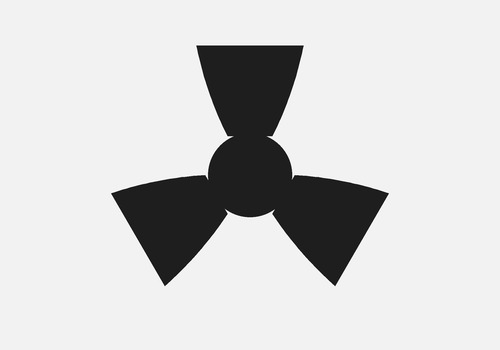
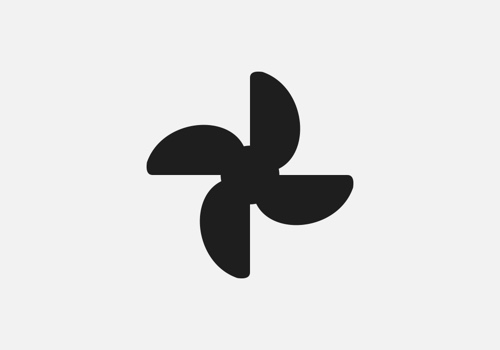
Put the new fan on the pair screen and the app card
The pair screens drew their own copy of the artwork, so they kept the
old sketch after the tiles were redrawn. The fan one also sat around
(480,400) while the spin animation turns about the centre of the
viewBox, so it wobbled rather than span. Both now carry the same
drawings as the tiles, centred. The app's own images were never
redrawn either; they are the new fan on the same grey card.

Changed region(s): [[0.21, 0.1143, 0.78, 0.8286]]

diff --git a/drivers/fan/pair/learn.html b/drivers/fan/pair/learn.html
@@ -59,20 +59,12 @@
 
 <div class="lucci-learn" id="container">
     <svg class="lucci-fan" viewBox="0 0 960 960" xmlns="http://www.w3.org/2000/svg">
-        <!-- Three blades around a hub, at 120 degrees to each other. -->
-        <path d="M480,400
-                 C480,400 470,180 420,110
-                 C380,55 300,60 275,120
-                 C248,185 330,290 480,400 Z"/>
-        <path d="M480,400
-                 C480,400 290,510 240,580
-                 C200,636 240,705 305,710
-                 C375,715 450,578 480,400 Z"/>
-        <path d="M480,400
-                 C480,400 670,510 720,580
-                 C760,636 720,705 655,710
-                 C585,715 510,578 480,400 Z"/>
-        <circle cx="480" cy="400" r="86"/>
+        <!-- Four blades turning around the motor, the same fan as the tile. -->
+        <path d="M480.0,388.2 L480.0,100.0 Q480.0,70.0 529.5,77.1 C706.9,138.5 726.6,418.5 570.4,464.1 Z"/>
+        <path d="M571.8,480.0 L860.0,480.0 Q890.0,480.0 882.9,529.5 C821.5,706.9 541.5,726.6 495.9,570.4 Z"/>
+        <path d="M480.0,571.8 L480.0,860.0 Q480.0,890.0 430.5,882.9 C253.1,821.5 233.4,541.5 389.6,495.9 Z"/>
+        <path d="M388.2,480.0 L100.0,480.0 Q70.0,480.0 77.1,430.5 C138.5,253.1 418.5,233.4 464.1,389.6 Z"/>
+        <circle cx="480" cy="480" r="114.8"/>
     </svg>
 
     <p class="lucci-message" id="message"></p>

diff --git a/drivers/light/pair/learn.html b/drivers/light/pair/learn.html
@@ -58,12 +58,10 @@
 
 <div class="lucci-learn" id="container">
     <svg class="lucci-light" viewBox="0 0 960 960" xmlns="http://www.w3.org/2000/svg">
-        <!-- A globe under the fan, which is what this device is. -->
-        <path d="M480,250 C330,250 250,345 250,440 C250,520 300,560 330,600
-                 C355,634 360,660 362,690 L598,690 C600,660 605,634 630,600
-                 C660,560 710,520 710,440 C710,345 630,250 480,250 Z"/>
-        <rect x="392" y="724" width="176" height="46" rx="23"/>
-        <rect x="414" y="800" width="132" height="44" rx="22"/>
+        <!-- A bulb, the same lamp as the tile. -->
+        <path d="M328,549 C376,583 357,639 357,677 L603,677 C603,639 584,583 632,549 A265,265 0 1 0 328,549 Z"/>
+        <path d="M357,668 L603,668 L603,744 Q603,774 573,774 L387,774 Q357,774 357,744 Z"/>
+        <rect x="391" y="796" width="178" height="93" rx="36"/>
     </svg>
 
     <p class="lucci-message" id="message"></p>
